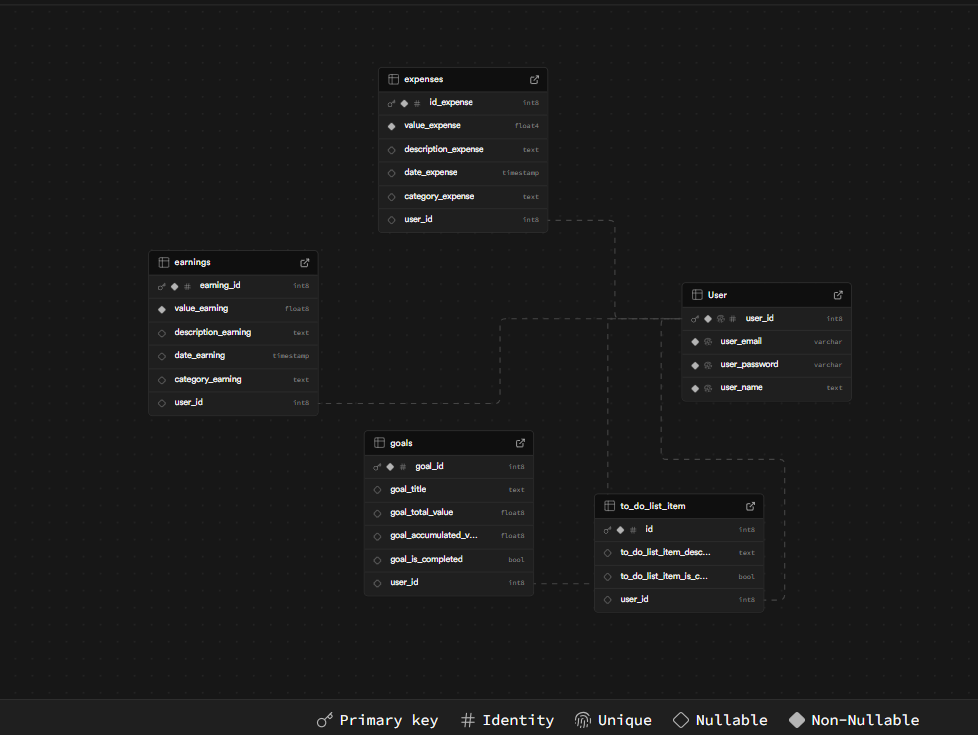
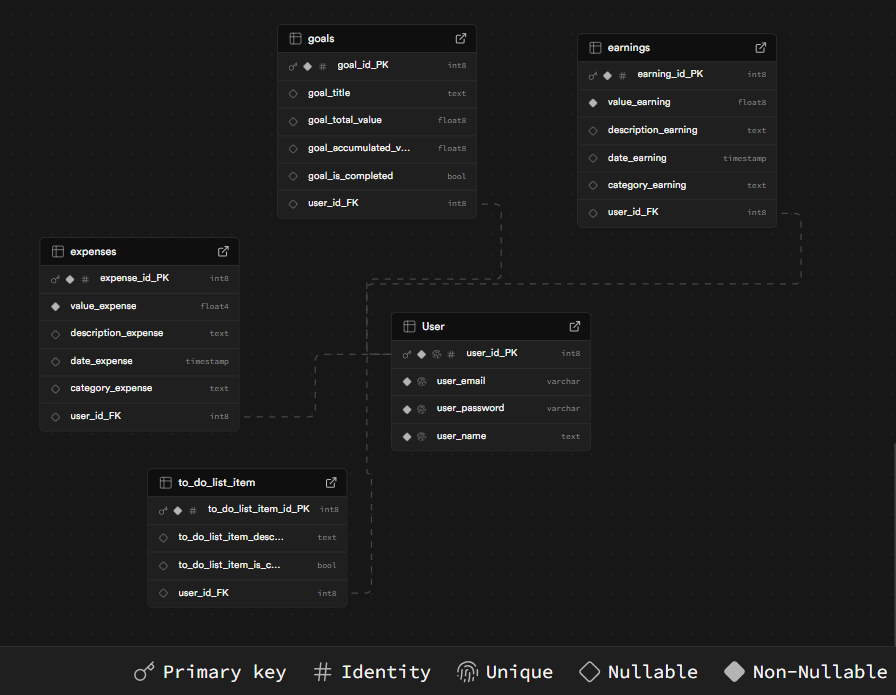
FEAT: cria models das tabelas do banco de dados

diff --git a/models/to_do_list_itemModel.js b/models/to_do_list_itemModel.js
@@ -1,0 +1,50 @@
+const db = require('../config/db');
+
+const toDoListItemModel = {
+  async getAllItems() {
+    const result = await db.query('SELECT * FROM to_do_list_item');
+    return result.rows;
+  },
+
+  async getItemById(to_do_list_item_id_PK) {
+    if (!Number.isInteger(to_do_list_item_id_PK)) {
+      throw new Error('Invalid to_do_list_item_id_PK');
+    }
+    const result = await db.query(
+      'SELECT * FROM to_do_list_item WHERE to_do_list_item_id_PK = $1',
+      [to_do_list_item_id_PK]
+    );
+    return result.rows[0];
+  },
+
+  async createItem({ to_do_list_item_description, to_do_list_item_is_completed = false, user_id_FK }) {
+    if (
+      typeof to_do_list_item_description !== 'string' ||
+      typeof to_do_list_item_is_completed !== 'boolean' ||
+      !Number.isInteger(user_id_FK)
+    ) {
+      throw new Error('Invalid input data');
+    }
+    const result = await db.query(
+      `INSERT INTO to_do_list_item 
+        (to_do_list_item_description, to_do_list_item_is_completed, user_id_FK)
+       VALUES ($1, $2, $3)
+       RETURNING *`,
+      [to_do_list_item_description, to_do_list_item_is_completed, user_id_FK]
+    );
+    return result.rows[0];
+  },
+
+  async getItemsByUserId(user_id_FK) {
+    if (!Number.isInteger(user_id_FK)) {
+      throw new Error('Invalid user_id_FK');
+    }
+    const result = await db.query(
+      'SELECT * FROM to_do_list_item WHERE user_id_FK = $1',
+      [user_id_FK]
+    );
+    return result.rows;
+  }
+};
+
+module.exports = toDoListItemModel;

diff --git a/models/earningsModel.js b/models/earningsModel.js
@@ -1,0 +1,46 @@
+const db = require('../config/db');
+
+const earningsModel = {
+  async getAllEarnings() {
+    const result = await db.query('SELECT * FROM earnings');
+    return result.rows;
+  },
+
+  async getEarningById(earning_id_PK) {
+    if (!Number.isInteger(earning_id_PK)) {
+      throw new Error('Invalid earning_id_PK');
+    }
+    const result = await db.query('SELECT * FROM earnings WHERE earning_id_PK = $1', [earning_id_PK]);
+    return result.rows[0];
+  },
+
+  async createEarning({ value_earning, description_earning, date_earning, category_earning, user_id_FK }) {
+    if (
+      typeof value_earning !== 'number' ||
+      typeof description_earning !== 'string' ||
+      isNaN(Date.parse(date_earning)) ||
+      typeof category_earning !== 'string' ||
+      !Number.isInteger(user_id_FK)
+    ) {
+      throw new Error('Invalid input data');
+    }
+    const result = await db.query(
+      `INSERT INTO earnings 
+        (value_earning, description_earning, date_earning, category_earning, user_id_FK)
+       VALUES ($1, $2, $3, $4, $5)
+       RETURNING *`,
+      [value_earning, description_earning, date_earning, category_earning, user_id_FK]
+    );
+    return result.rows[0];
+  },
+
+  async getEarningsByUserId(user_id_FK) {
+    if (!Number.isInteger(user_id_FK)) {
+      throw new Error('Invalid user_id_FK');
+    }
+    const result = await db.query('SELECT * FROM earnings WHERE user_id_FK = $1', [user_id_FK]);
+    return result.rows;
+  }
+};
+
+module.exports = earningsModel;

diff --git a/models/goalsModel.js b/models/goalsModel.js
@@ -1,0 +1,46 @@
+const db = require('../config/db');
+
+const goalsModel = {
+  async getAllGoals() {
+    const result = await db.query('SELECT * FROM goals');
+    return result.rows;
+  },
+
+  async getGoalById(goal_id_PK) {
+    if (!Number.isInteger(goal_id_PK)) {
+      throw new Error('Invalid goal_id_PK');
+    }
+    const result = await db.query('SELECT * FROM goals WHERE goal_id_PK = $1', [goal_id_PK]);
+    return result.rows[0];
+  },
+
+  async createGoal({ goal_title, goal_total_value, goal_accumulated_value = 0, goal_is_completed = false, user_id_FK }) {
+    if (
+      typeof goal_title !== 'string' ||
+      typeof goal_total_value !== 'number' ||
+      typeof goal_accumulated_value !== 'number' ||
+      typeof goal_is_completed !== 'boolean' ||
+      !Number.isInteger(user_id_FK)
+    ) {
+      throw new Error('Invalid input data');
+    }
+    const result = await db.query(
+      `INSERT INTO goals 
+        (goal_title, goal_total_value, goal_accumulated_value, goal_is_completed, user_id_FK)
+       VALUES ($1, $2, $3, $4, $5)
+       RETURNING *`,
+      [goal_title, goal_total_value, goal_accumulated_value, goal_is_completed, user_id_FK]
+    );
+    return result.rows[0];
+  },
+
+  async getGoalsByUserId(user_id_FK) {
+    if (!Number.isInteger(user_id_FK)) {
+      throw new Error('Invalid user_id_FK');
+    }
+    const result = await db.query('SELECT * FROM goals WHERE user_id_FK = $1', [user_id_FK]);
+    return result.rows;
+  }
+};
+
+module.exports = goalsModel;

diff --git a/models/userModel.js b/models/userModel.js
@@ -1,36 +1,23 @@
 const db = require('../config/db');
 
-class User {
-  static async getAll() {
-    const result = await db.query('SELECT * FROM users');
+const userModel = {
+  async getAllUsers() {
+    const result = await db.query('SELECT * FROM "User"');
     return result.rows;
-  }
+  },
 
-  static async getById(id) {
-    const result = await db.query('SELECT * FROM users WHERE id = $1', [id]);
+  async getUserById(user_id_PK) {
+    const result = await db.query('SELECT * FROM "User" WHERE user_id_PK = $1', [user_id_PK]);
     return result.rows[0];
-  }
+  },
 
-  static async create(data) {
+  async createUser({ user_name, user_email, user_password }) {
     const result = await db.query(
-      'INSERT INTO users (name, email) VALUES ($1, $2) RETURNING *',
-      [data.name, data.email]
+      'INSERT INTO "User" (user_name, user_email, user_password) VALUES ($1, $2, $3) RETURNING *',
+      [user_name, user_email, user_password]
     );
     return result.rows[0];
   }
+};
 
-  static async update(id, data) {
-    const result = await db.query(
-      'UPDATE users SET name = $1, email = $2 WHERE id = $3 RETURNING *',
-      [data.name, data.email, id]
-    );
-    return result.rows[0];
-  }
-
-  static async delete(id) {
-    const result = await db.query('DELETE FROM users WHERE id = $1 RETURNING *', [id]);
-    return result.rowCount > 0;
-  }
-}
-
-module.exports = User;
+module.exports = userModel;

diff --git a/models/expensesModel.js b/models/expensesModel.js
@@ -1,0 +1,31 @@
+const db = require('../config/db');
+
+const expensesModel = {
+  async getAllExpenses() {
+    const result = await db.query('SELECT * FROM expenses');
+    return result.rows;
+  },
+
+  async getExpenseById(expense_id_PK) {
+    const result = await db.query('SELECT * FROM expenses WHERE expense_id_PK = $1', [expense_id_PK]);
+    return result.rows[0];
+  },
+
+  async createExpense({ value_expense, description_expense, date_expense, category_expense, user_id_FK }) {
+    const result = await db.query(
+      `INSERT INTO expenses 
+        (value_expense, description_expense, date_expense, category_expense, user_id_FK)
+       VALUES ($1, $2, $3, $4, $5)
+       RETURNING *`,
+      [value_expense, description_expense, date_expense, category_expense, user_id_FK]
+    );
+    return result.rows[0];
+  },
+
+  async getExpensesByUserId(user_id_FK) {
+    const result = await db.query('SELECT * FROM expenses WHERE user_id_FK = $1', [user_id_FK]);
+    return result.rows;
+  }
+};
+
+module.exports = expensesModel;

diff --git a/documents/WAD.md b/documents/WAD.md
@@ -139,56 +139,54 @@ O arquivo contendo o script SQL está disponível no repositório do projeto, no
 
 ```sql
 -- Tabela de usuários
-CREATE TABLE users (
-  user_id SERIAL PRIMARY KEY,
+CREATE TABLE User (
+  user_id_PK SERIAL PRIMARY KEY,
   user_email VARCHAR(100) UNIQUE NOT NULL,
   user_password VARCHAR(100) NOT NULL,
-  user_name TEXT NOT NULL,
-  created_at TIMESTAMP DEFAULT CURRENT_TIMESTAMP
-);
-
--- Tabela de despesas
-CREATE TABLE expenses (
-  id_expense SERIAL PRIMARY KEY,
-  value_expense FLOAT NOT NULL,
-  description_expense TEXT,
-  date_expense TIMESTAMP NOT NULL,
-  category_expense TEXT,
-  user_id INT NOT NULL,
-  CONSTRAINT fk_expenses_user FOREIGN KEY (user_id) REFERENCES users(user_id)
+  user_name TEXT NOT NULL
 );
 
 -- Tabela de ganhos
 CREATE TABLE earnings (
-  id_earning SERIAL PRIMARY KEY,
+  earning_id_PK SERIAL PRIMARY KEY,
   value_earning FLOAT NOT NULL,
   description_earning TEXT,
   date_earning TIMESTAMP NOT NULL,
   category_earning TEXT,
-  user_id INT NOT NULL,
-  CONSTRAINT fk_earnings_user FOREIGN KEY (user_id) REFERENCES users(user_id)
+  user_id_FK INT NOT NULL,
+  CONSTRAINT fk_earnings_user FOREIGN KEY (user_id_FK) REFERENCES "User"(user_id_PK)
 );
 
 -- Tabela de metas
 CREATE TABLE goals (
-  goal_id SERIAL PRIMARY KEY,
+  goal_id_PK SERIAL PRIMARY KEY,
   goal_title TEXT NOT NULL,
   goal_total_value FLOAT NOT NULL,
   goal_accumulated_value FLOAT DEFAULT 0,
   goal_is_completed BOOLEAN DEFAULT FALSE,
-  user_id INT NOT NULL,
-  CONSTRAINT fk_goals_user FOREIGN KEY (user_id) REFERENCES users(user_id)
+  user_id_FK INT NOT NULL,
+  CONSTRAINT fk_goals_user FOREIGN KEY (user_id_FK) REFERENCES "User"(user_id_PK)
+);
+
+-- Tabela de despesas
+CREATE TABLE expenses (
+  expense_id_PK SERIAL PRIMARY KEY,
+  value_expense FLOAT NOT NULL,
+  description_expense TEXT,
+  date_expense TIMESTAMP NOT NULL,
+  category_expense TEXT,
+  user_id_FK INT NOT NULL,
+  CONSTRAINT fk_expenses_user FOREIGN KEY (user_id_FK) REFERENCES "User"(user_id_PK)
 );
 
 -- Tabela de itens da lista de tarefas
 CREATE TABLE to_do_list_item (
-  id SERIAL PRIMARY KEY,
-  to_do_list_item_desc TEXT NOT NULL,
+  to_do_list_item_id_PK SERIAL PRIMARY KEY,
+  to_do_list_item_description TEXT NOT NULL,
   to_do_list_item_is_completed BOOLEAN DEFAULT FALSE,
-  user_id INT NOT NULL,
-  CONSTRAINT fk_todolist_user FOREIGN KEY (user_id) REFERENCES users(user_id)
+  user_id_FK INT NOT NULL,
+  CONSTRAINT fk_todolist_user FOREIGN KEY (user_id_FK) REFERENCES "User"(user_id_PK)
 );
-
 ```
 
 Este script pode ser utilizado para criar a estrutura completa do banco de dados em um sistema gerenciador de banco de dados relacional (SGBD), como o próprio PostgreSQL.
